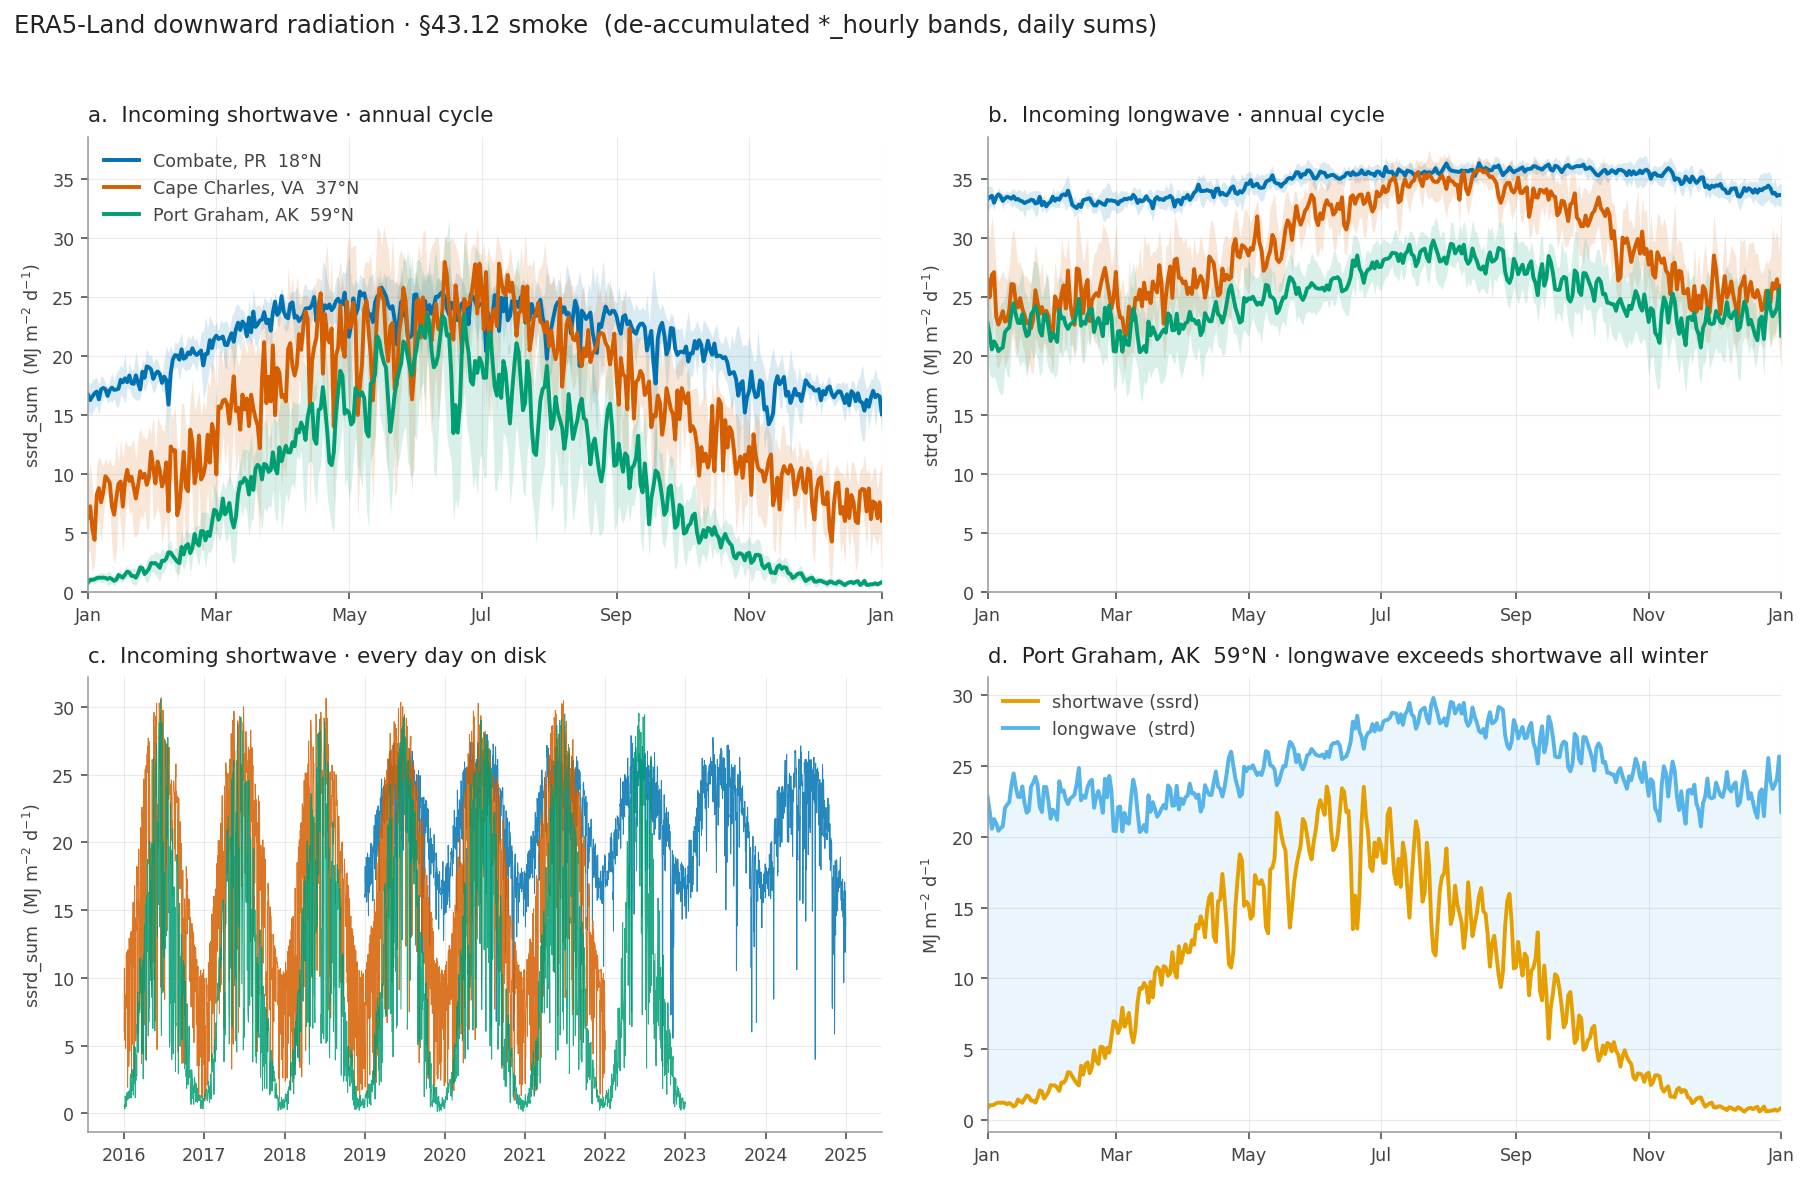
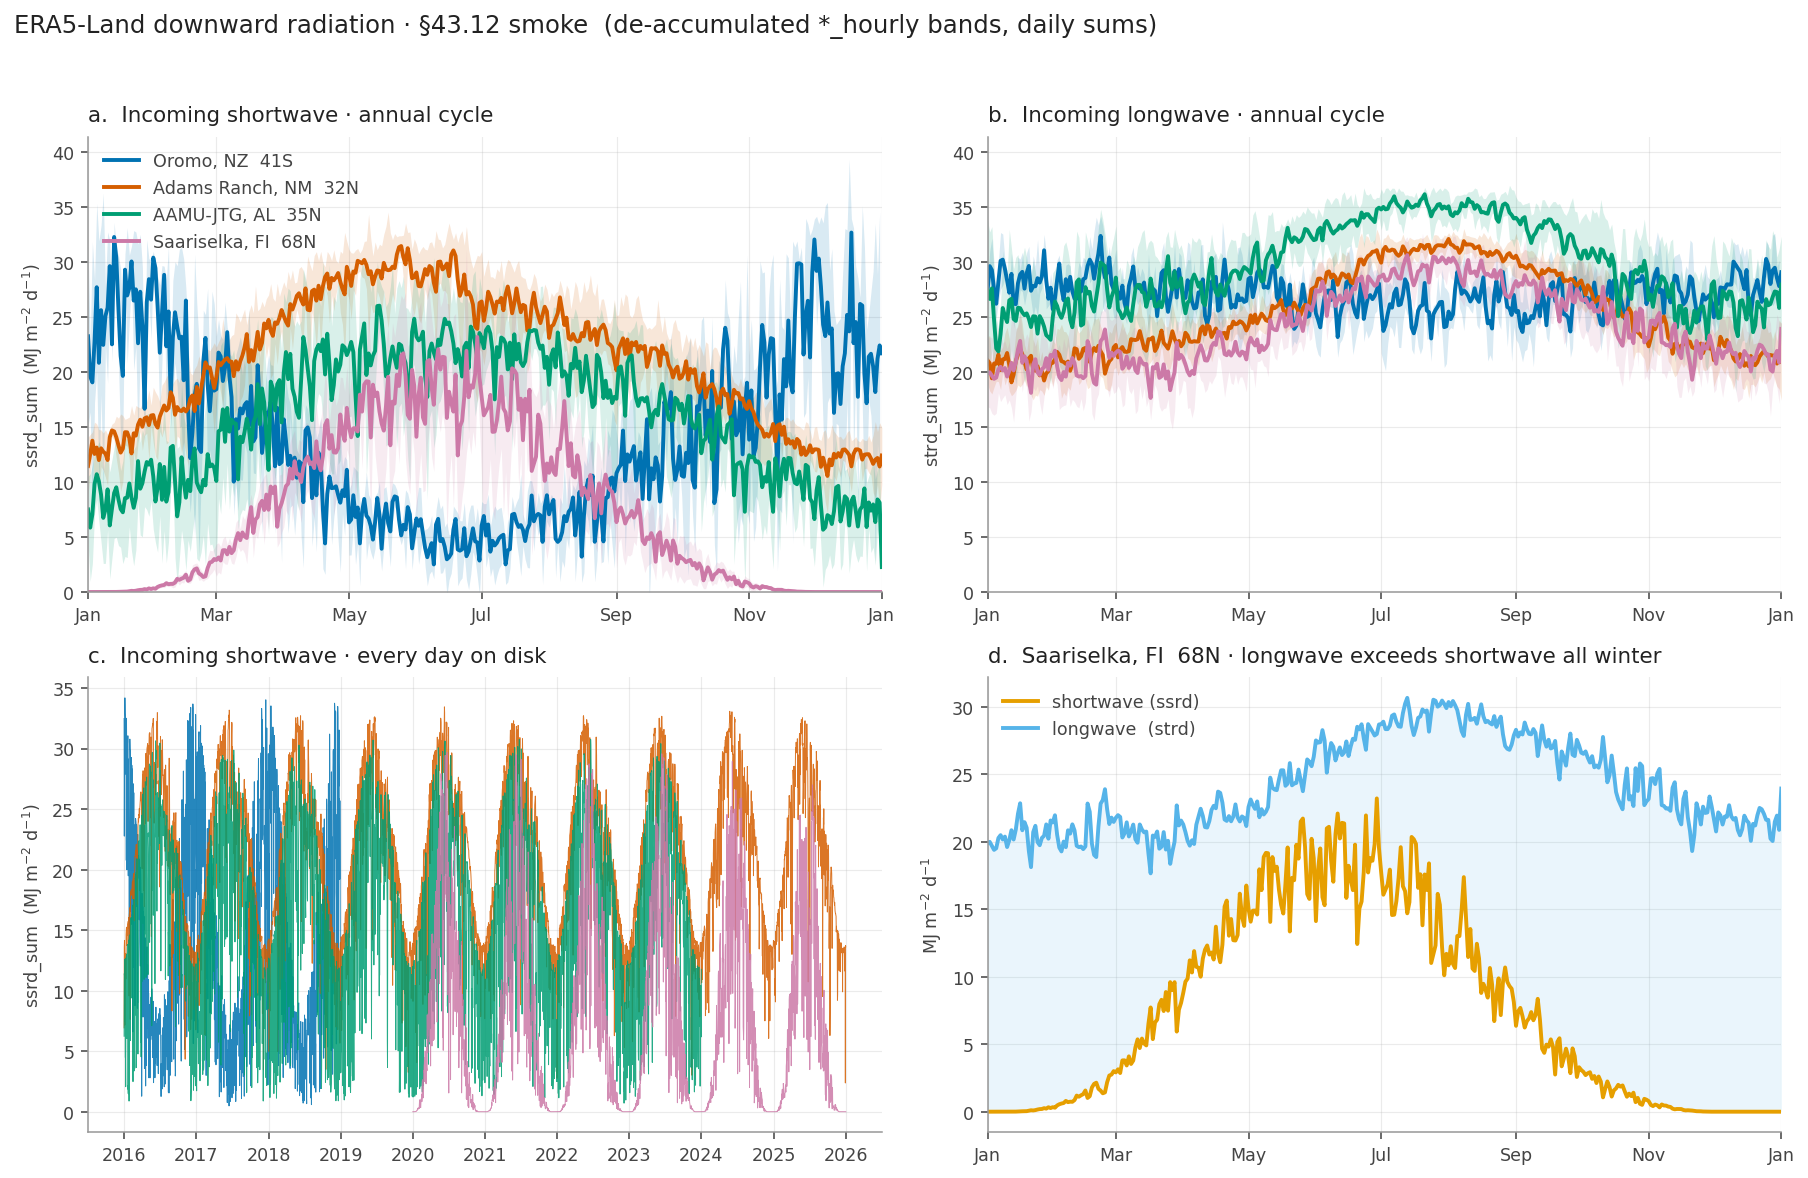
Point the radiation plot at four diverse point-query controls
Oromo NZ 41S, Adams Ranch NM 32N, AAMU-JTG AL 35N, Saariselka FI 68N. The
southern-hemisphere site inverts the annual cycle (peak DOY 352) and the
subarctic site reads exactly 0.0 through polar night -- two validations the
download code cannot fake, since it knows neither hemisphere nor latitude.

diff --git a/plot_era5_radiation.py b/plot_era5_radiation.py
@@ -52,9 +52,10 @@ FIG       = Path("/gpfs/work3/0/prjs1968/soilMoisture/fig/era5_radiation")
 
 # Fixed order = increasing latitude.  Okabe-Ito blue / vermillion / bluish-green.
 STATIONS = [
-    ("ISMN_SCAN_Combate",             "Combate, PR  18°N",        "#0072B2"),
-    ("ISMN_USCRN_Cape-Charles-5-ENE", "Cape Charles, VA  37°N",   "#D55E00"),
-    ("ISMN_SNOTEL_PortGraham",        "Port Graham, AK  59°N",    "#009E73"),
+    ("ISMN_LAB-net_OromoCalibrationSite", "Oromo, NZ  41S",        "#0072B2"),
+    ("ISMN_SCAN_AdamsRanch#1",            "Adams Ranch, NM  32N",  "#D55E00"),
+    ("ISMN_SCAN_AAMU-JTG",                "AAMU-JTG, AL  35N",     "#009E73"),
+    ("ISMN_FMI_SAA111",                   "Saariselka, FI  68N",   "#CC79A7"),
 ]
 MJ = 1e6
 
